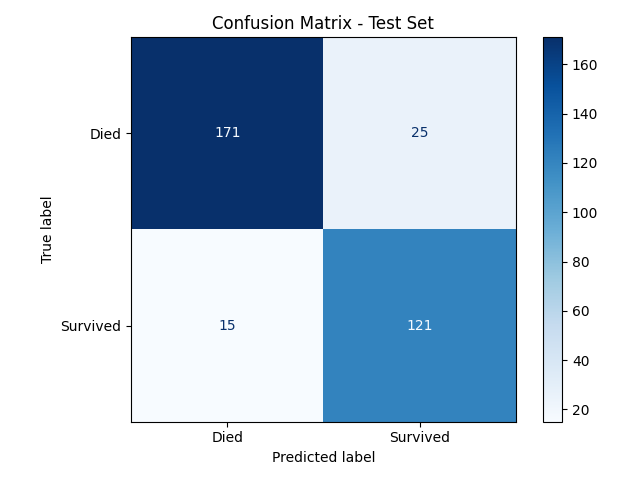
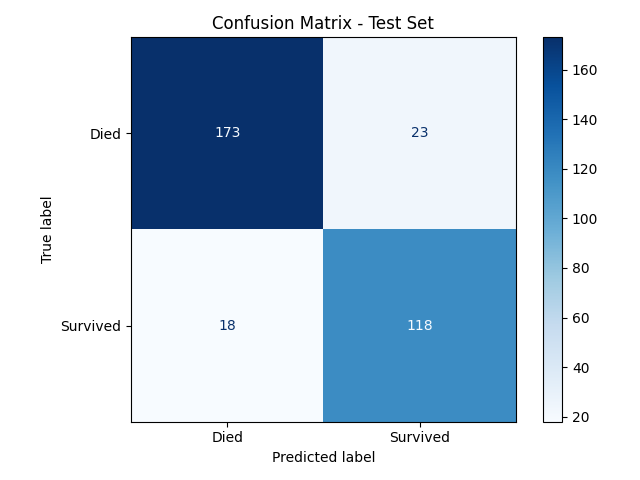
new results

diff --git a/Algorithms/Neural_network/Neural_network.py b/Algorithms/Neural_network/Neural_network.py
@@ -95,7 +95,7 @@ def train_model():
         show=True
     )
 
-    smote = SMOTE(random_state=42)
+    smote = SMOTE(random_state=42, k_neighbors=3)
     X_resampled, y_resampled = smote.fit_resample(X_train, y_train)
 
     plot_survival_distribution(
